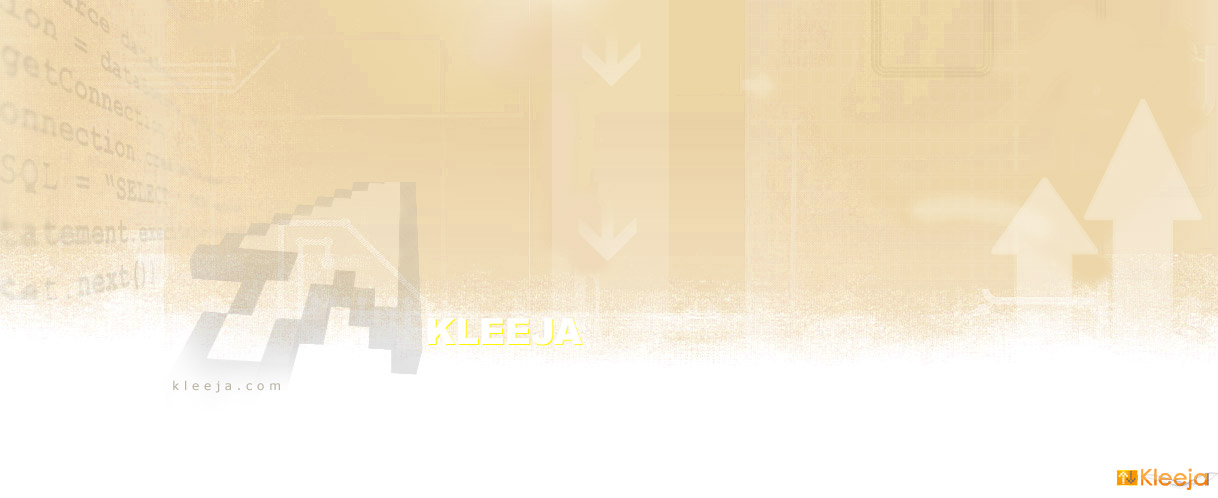
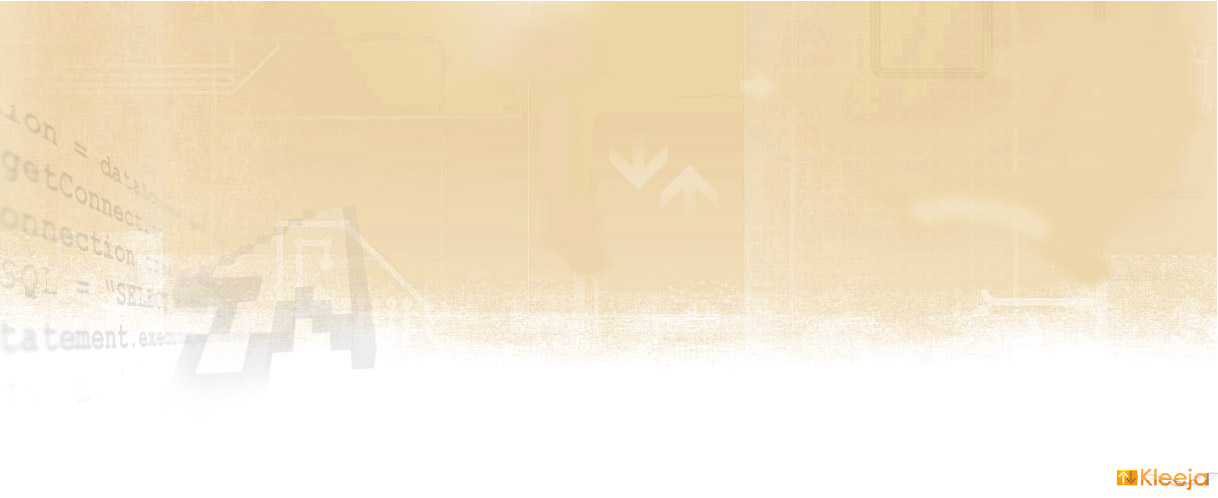
updated style

diff --git a/styles/default/stylesheet.css b/styles/default/stylesheet.css
@@ -39,22 +39,16 @@ input, textarea, select {font-size: 13px;	color: #333333;}
 
 /* Header */
 
-#header {width: 850px; margin: 0 auto; height: 60px;}
+#extras_header { margin: 0 auto; padding: 5px;}
 
 /* Menu */
 
-#menu { float: right; width: 850px; color: #FFFFFF; padding: 5px; margin-bottom:9px;}
 
-#menu a {text-decoration: underline;font-size: 11px;color: #FFFFFF;}
-
-#menu a:hover {text-decoration: none;color: #FFFFFF;}
-
-#menu .current_page_item a {color: #FFFFFF;}
 
 /** LOGO */
 
-#logobody {float: right;width: 100%;margin:0; padding:0;background: #F3F3F3;}
-#logobody .logo{width: 50%;  margin:0; padding: 10px 40px 10px 10px;	background: #FFF;-moz-border-radius-topleft: 50px;}
+#logobody {float: right;width: 100%;margin:0; padding:0;background: #FFF;}
+#logobody .logo{width: 50%;  margin:0; padding: 10px 40px 10px 10px;	}
 #logobody .logo a:link ,.logo a:visited ,.logo a:hover ,.logo a:active{background-color: transparent;}
 
 .clr {clear: both;overflow:hidden;height:0;}
@@ -63,7 +57,7 @@ input, textarea, select {font-size: 13px;	color: #333333;}
 #topnav_box {width: 100%;height: 43px;margin:0;background: #FF8901 url(images/bg_topnav.jpg) repeat-x left top;
 text-align: center;float: left;
 			padding:0;}
-.topnav_right {width: 86px;float:right;margin: auto}
+#topnav_box .topnav_right {width: 86px;float:right;margin: auto}
 #topnav {width: 850px;font-size: 11px;text-align: right;margin: auto}
 #topnav ul li {display: block;list-style-type: none;font-size: 11px;float: right;
 			margin: 7px 0 2px 20px;text-align: center}
@@ -81,18 +75,16 @@ text-align: center;float: left;
 
 
 /* Page */
-#page {	width: 880px;
-	margin: 0 auto;
-}
+#page {	width: 100%;margin: 0 auto;}
 
 /* Content */
 
-#content {float: left;width: 640px;}
+#content {float: left;width: 70%;}
 
 
 /* Footer */
 
-#footer {width: 100%;margin: 0 auto; position:absolute; left:0px; bottom:0px;padding: 4px; text-align: center;
+#footer {width: 100%;margin: 0 auto; position:fixed; left:0px; bottom:0px;padding: 4px; text-align: center;
 		background:#FF8901 url(images/bg_footer.jpg) repeat-x left top;color:#fff;}
 #footer a {color:#fff;}
 #footer a:link{color:#fff;}
@@ -176,10 +168,11 @@ div#texttype {display: none;}
 .thumb_div_tag {	text-align:center;}
 
 
-#right_menu{ width:190px;
+#right_menu{ width:20%;
 height:auto;
 float:right;
 padding:5px 0px 5px 10px;
+margin: 5px 30px 0px 0px;
 }
 #right_menu .list{ margin-left:16px;
 width: 180px;
@@ -224,3 +217,46 @@ border-bottom: 1px solid #666;
 }
 
 
+#title-x {
+	float:left;
+	width: 100%;
+	height: 20px;
+
+	color: #000;
+	padding: 0 ;
+    margin:5px ;
+
+}
+#title-x b {
+   	padding: 5px 20px;
+font-size: 20px;
+}
+#title-x a {
+	color:#D86800;
+
+}
+
+#title-x a:hover { 
+		color: #000;background-color: transparent;
+}
+
+#title-x .current_page_item a {
+	color: #785;
+}
+.row1, td.row1 , tr.row1 , b.row1{ 
+ width: 25%;
+	background:#FBF3E6;
+	color: #333;
+font: bold 11px tahoma,Verdana, Helvetica, sans-serif;
+	padding: 5px;
+	border: 1px solid#F5D0A1;
+
+}
+.row2, td.row2, tr.row2 , b.row2{ 
+    width: 50%;
+	background:#FBF3E6;
+	color: #333;
+	padding: 5px;
+font: bold 11px tahoma,Verdana, Helvetica, sans-serif;
+	border: 1px solid#F5D0A1;
+}

diff --git a/styles/default/header.html b/styles/default/header.html
@@ -14,9 +14,8 @@ var LANG_MORE_F_FILES ="{lang.MORE_F_FILES}";
 <script type="text/javascript" src="{STYLE_PATH}javascript.js"></script>
 </head>
 <body>
-
-
-
+<!-- start wrapper --> 
+<div id="wrapper">
 
 <!-- start logo -->
 <div id="logobody">
@@ -27,8 +26,6 @@ var LANG_MORE_F_FILES ="{lang.MORE_F_FILES}";
 	</div>
 </div>
 <!--  # End  logo -->
-
-
 
 <!-- start top nav bar  -->
 <div id="topnav_box"><div class="topnav_right"><img src="{STYLE_PATH}images/topnav_right.jpg" /></div>
@@ -47,23 +44,16 @@ var LANG_MORE_F_FILES ="{lang.MORE_F_FILES}";
 </div>
 <!--  # End  top nav bar -->
 
+<!-- start site name and title  -->
+<div id="title-x"><b><a href="{config.siteurl}">{config.sitename}</a> &#9679; {title}</b></div>
+<!--  # End  site name and title  -->
 
-<!-- start wrapper --> 
-<div id="wrapper">
-
-
-<div id="header">
-	<div id="menu">
-	{extras.header}
-	</div>
-</div>
-
-
-
+<!-- start extras header  -->
+<div id="extras_header">{extras.header}</div>
+<!--  # End  extras header -->
 
 <!-- start page -->
 <div id="page">
-
 
 <!-- start  menu right -->         
 <div id="right_menu">
@@ -84,4 +74,3 @@ var LANG_MORE_F_FILES ="{lang.MORE_F_FILES}";
 	<p>&nbsp;</p>
 </div>
 <!--  # End  menu right -->
-

diff --git a/styles/default/index_body.html b/styles/default/index_body.html
@@ -1,9 +1,9 @@
 <div id="content">
 
 <!-- begin welcome index -->
-<h2>{lang.WELCOME}..</h2>        
+  
 <br />
-{welcome_msg}
+<h2>{lang.WELCOME}..</h2>  {welcome_msg}
 <br />
 <br />
 <!-- end welcome index -->

diff --git a/styles/default/get_pass.html b/styles/default/get_pass.html
@@ -1,4 +1,5 @@
 <div id="content">
+<br />
 	{lang.E_GET_LOSTPASS}
 	<form action="{action}" method="post">
 		{lang.EMAIL} : <input type="text" name="rmail" value="{t_rmail}"  /><br />

diff --git a/styles/default/fileuser.html b/styles/default/fileuser.html
@@ -1,7 +1,6 @@
 
         
 <div id="content">
-
         <IF NAME="user_name">
         <h2>{lang.PUBLIC_USER_FILES} : {user_name}</h2>
         </IF>

diff --git a/styles/default/info.html b/styles/default/info.html
@@ -1,6 +1,7 @@
 
         <!-- begin info template -->
 		<div id="content">
+
         <div class="info">
         {text}
         </div>

diff --git a/styles/default/filecp.html b/styles/default/filecp.html
@@ -1,7 +1,7 @@
 
         
 <div id="content">
-
+<br />
 <h2>{lang.EDIT_U_FILES}</h2>
 
 <form action="{action}" method="post">

diff --git a/styles/default/guide.html b/styles/default/guide.html
@@ -1,6 +1,6 @@
 
         <div id="content">
-
+<br />
 <h2>{lang.GUIDE_VISITORS} </h2>
 <br />
 <LOOP NAME="gusts_data">

diff --git a/styles/default/call.html b/styles/default/call.html
@@ -1,5 +1,6 @@
-
-        <div id="content">
+<div id="content">
+
+
 
 <form action="{action}" method="post">
 

diff --git a/styles/default/stats.html b/styles/default/stats.html
@@ -1,4 +1,5 @@
 <div id="content">
+
 	<h2>{lang.STATS} :</h2> 
 	<br />
 

diff --git a/styles/default/rules.html b/styles/default/rules.html
@@ -1,6 +1,7 @@
 
         <div id="content">
 
+
 {lang.E_RULES} :
 
 <br />
